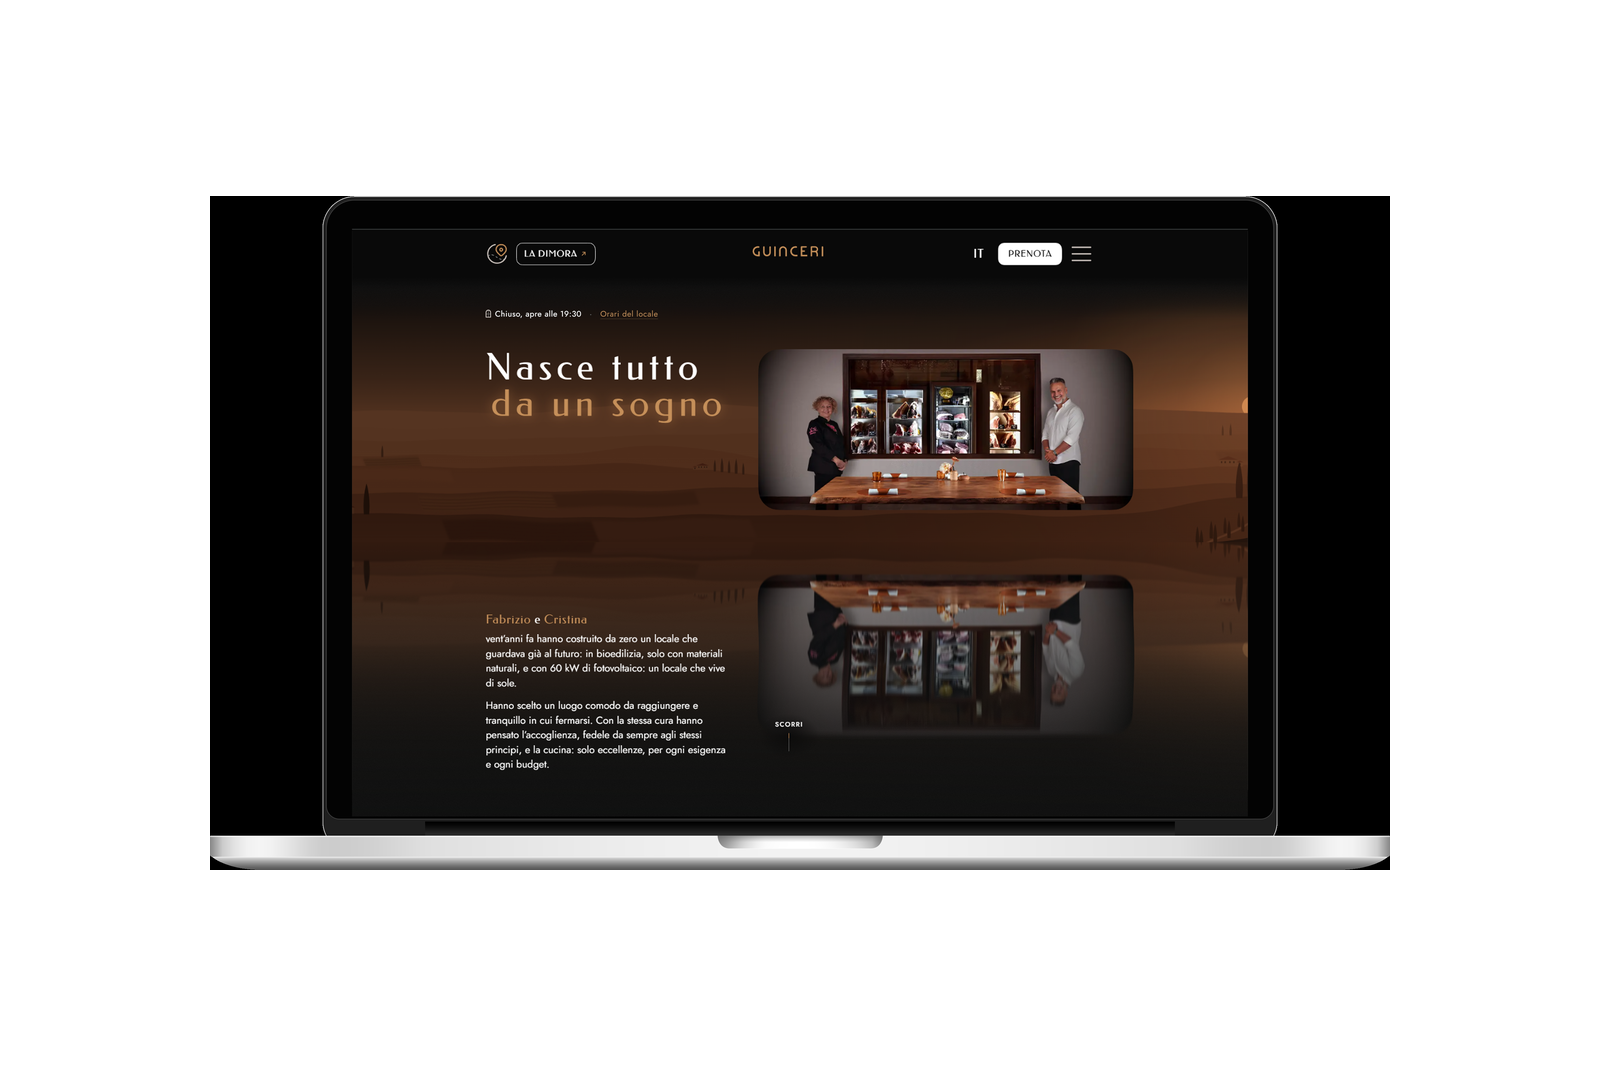
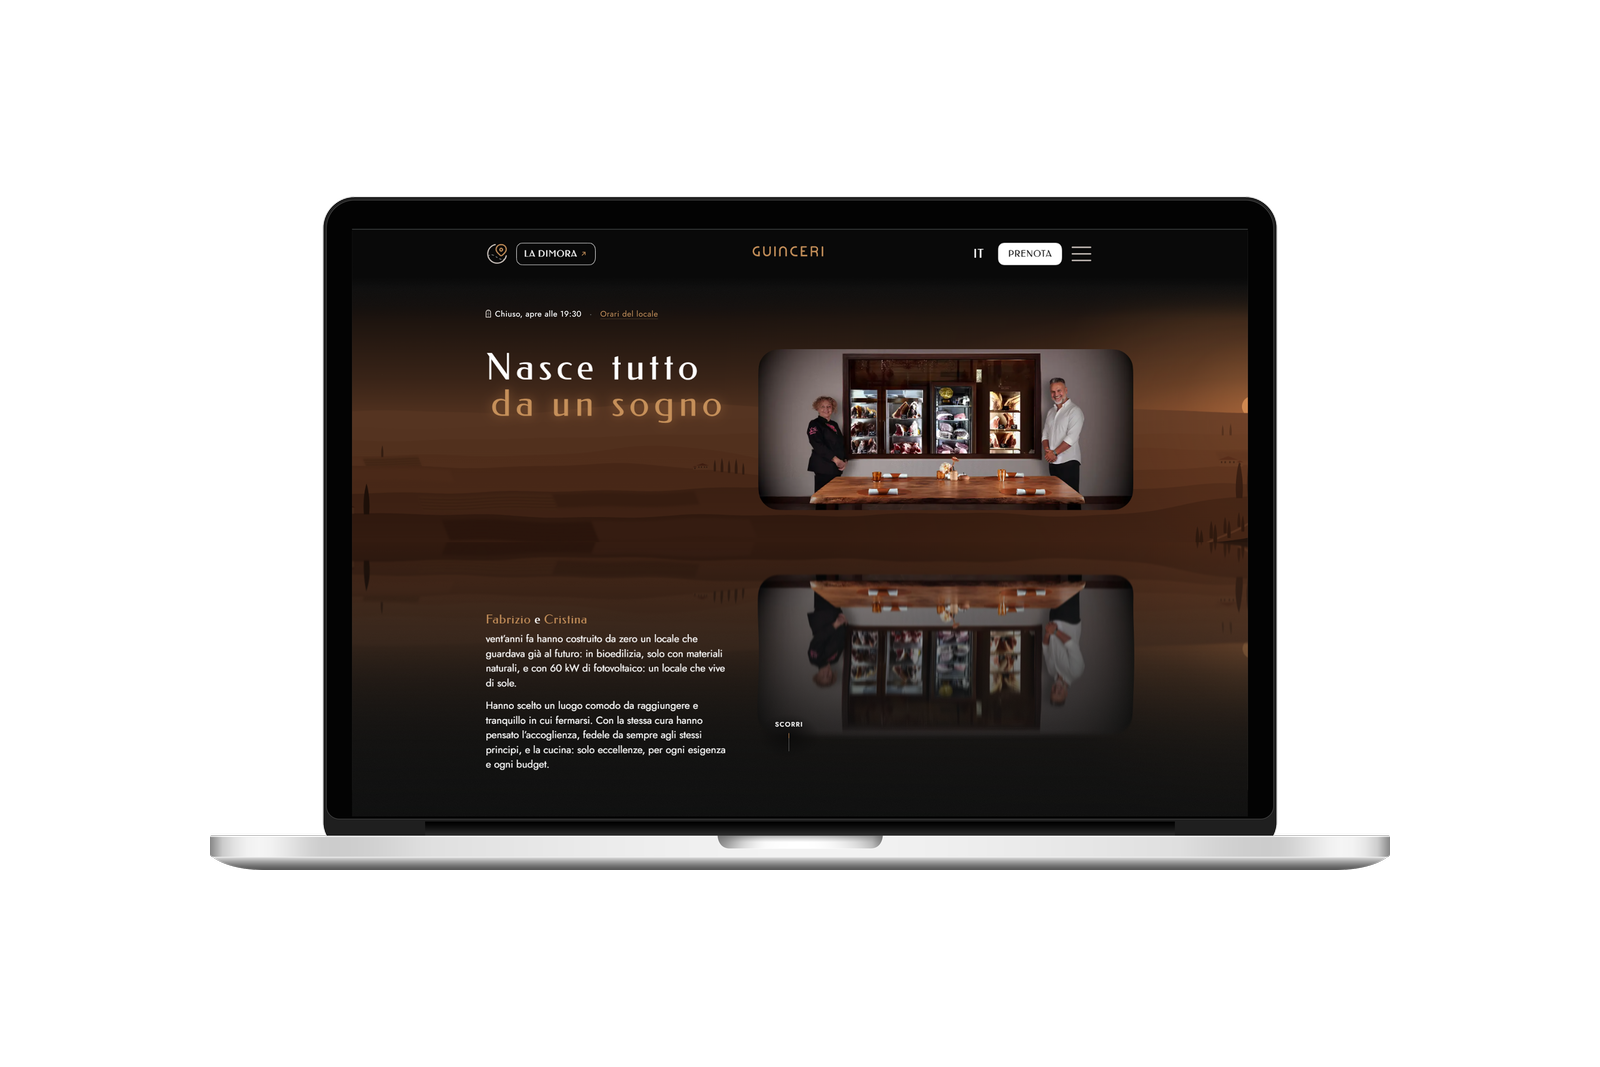
Via di Guinceri thumbnail: restore the mockup's transparent ground
The patched laptop lost its alpha (63 instead of 0), so a dark box showed
around the laptop. Colours are now written into the original RGBA pixels.

Changed region(s): [[0.7812, 0.1856, 0.875, 0.8351], [0.125, 0.1856, 0.2188, 0.8351]]

diff --git a/pages/viadiguinceri/index.js b/pages/viadiguinceri/index.js
@@ -39,7 +39,7 @@ export default function ViaDiGuinceriCaseStudy() {
       <Seo
         title="Via di Guinceri - Case Study"
         description={t('viadiguinceri-meta-desc')}
-        image="/viadiguinceri-og.jpg?v=2"
+        image="/viadiguinceri-og.jpg?v=3"
       />
       <CaseStudyBackground src="/viadiguinceri-project/viadiguinceri-bg.webm" overlayClassName="bg-black/60" />
       <main className="relative z-10 flex flex-col items-center w-full py-0 md:py-10">

diff --git a/pages/work/index.js b/pages/work/index.js
@@ -12,7 +12,7 @@ const Work = () => {
 
   return (
     <div className="relative min-h-[100svh] bg-grey overflow-x-hidden">
-      <Seo title={`${t('tab-work')} | Davide Pintore`} description={t('meta-work')} image="/viadiguinceri-og.jpg?v=2" />
+      <Seo title={`${t('tab-work')} | Davide Pintore`} description={t('meta-work')} image="/viadiguinceri-og.jpg?v=3" />
 
       <div className="absolute inset-0 bg-gradient-to-r from-grey/10 via-white/30 to-white/10" />
 

diff --git a/components/WorkSlider.js b/components/WorkSlider.js
@@ -8,7 +8,7 @@ import { useIsDesktop } from '../hooks/useIsDesktop';
 export const workProjects = [
   {
     title: 'Via di Guinceri - Case Study',
-    path: '/thumb1-6.png?v=3',
+    path: '/thumb1-6.png?v=4',
     url: '/viadiguinceri',
     isExternal: false,
   },
